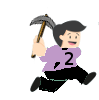
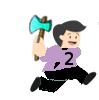
Miners now appear on puzzle page.

Changed region(s): [[0.2727, 0.12, 0.5758, 0.42], [0.303, 0.51, 0.4242, 0.63]]

diff --git a/public/js/miners.js b/public/js/miners.js
@@ -34,9 +34,18 @@
 			dataType: JSON,                 
 	    });
 	}
+	
+	// miner constructor
+	function Miner(charName, minutes) {
+		this.charName = charName;
+		this.minutes = minutes;
+		this.imgPath = "images/miners/" + charName.toLowerCase() + ".png";
+		this.onLeft = true;
+		this.onRaft = false; 
+	}
   	
   	// farmer constructor
-  	function Farmer(gender) {
+  	/*function Farmer(gender) {
 		this.imgPath = "images/" + ((gender == "female") ? "girlFarmer.png" : "boyFarmer.png");  	
 		this.onLeft = true;
 		this.onRaft = false; 
@@ -49,7 +58,7 @@
   	this.imgPath = "images/theme" + themeNum + "/" + charName + ".png";
   	this.onLeft = true;
   	this.onRaft = false; 
-  }
+  }*/
   
   // raft initial values
   var raftOnLeft = true; 
@@ -58,9 +67,9 @@
   var raftMoving = false;
   
   // store important objects
-  var farmer;
-  var aChar, bChar, cChar;
-  var raftPassenger;
+  //var farmer;
+  var aChar, bChar, cChar, dChar;
+  //var raftPassenger;
   
   // text divs
   var endText = document.getElementById("endText");
@@ -87,7 +96,7 @@
   	
   	// reset game 
   	gamePlayable = true;
-  	raftPassenger = null;
+  	//raftPassenger = null;
   	xPos = 10;
   	endText.innerHTML = "";
   	stepsArea.innerHTML = "";
@@ -96,37 +105,46 @@
   	document.getElementById("raft").style.left = 0;
   	raftOnLeft = true;
   	
+  	// create miner objects
+  	aChar = new Miner("Onika", 1);
+  	bChar = new Miner("Twitch", 2);
+  	cChar = new Miner("Fiona", 4);
+  	dChar = new Miner("Edward", 8);
+  	
   	// create farmer object
-  	farmer = new Farmer(document.querySelector('input[name="gender"]:checked').value);
+  	//farmer = new Farmer(document.querySelector('input[name="gender"]:checked').value);
   	
   	// draw farmer on left bank
-  	document.getElementById("farmerLeft").appendChild(document.getElementById("farmerImg"));
-  	farmerImg.src = farmer.imgPath;
+  	//document.getElementById("farmerLeft").appendChild(document.getElementById("farmerImg"));
+  	//farmerImg.src = farmer.imgPath;
   	
 	// store chosen theme details
-  	var select = document.getElementById("select");
+  	/*var select = document.getElementById("select");
   	var themeNum = select.selectedIndex;
   	var theme = select.options[select.selectedIndex].value.split("/");
   	
   	// create character objects
   	aChar = new Character(theme[0], 1, themeNum); 
   	bChar = new Character(theme[1], 2, themeNum); 
-  	cChar = new Character(theme[2], 3, themeNum); 
+  	cChar = new Character(theme[2], 3, themeNum);*/ 
   	
   	// store image elements
   	var aImg = document.getElementById("aImg");
   	var bImg = document.getElementById("bImg");
   	var cImg = document.getElementById("cImg");
+  	var dImg = document.getElementById("dImg");
   	
   	// put character image elements on left bank
   	document.getElementById("aLeft").appendChild(aImg);
   	document.getElementById("bLeft").appendChild(bImg);
   	document.getElementById("cLeft").appendChild(cImg);
+  	document.getElementById("dLeft").appendChild(dImg);
   	
 	// set image sources, so images visible
 	aImg.src = aChar.imgPath;
 	bImg.src = bChar.imgPath;
 	cImg.src = cChar.imgPath;
+	dImg.src = dChar.imgPath;
   });
 	  
   /**

diff --git a/resources/views/miners/index.blade.php b/resources/views/miners/index.blade.php
@@ -34,18 +34,6 @@
 		</p>
 		<form>
 			{!! csrf_field() !!}
-			<input type="radio" name="gender" value="male" checked>Male
-			<br>
-			<input type="radio" name="gender" value="female">Female
-			<br>
-			Theme:<br>
-			<select id="select">
-				<option>Fox/Chicken/Grain</option>
-				<option>Panther/Pig/Porridge</option>
-				<option>Wolf/Sheep/Cabbage</option>
-				<option>Fox/Goose/Beans</option>
-			</select>
-			<br>
 			<button id="startBtn" type="button">Restart</button>
 		</form>
 	</div>
@@ -54,9 +42,6 @@
 			<div id="canvas">
 				<div id="endText"></div>
 				<div id="charsInit">
-					<div class="character" id="farmerLeft">
-						<img src="" alt="" id="farmerImg">
-					</div>
 					<div class="character" id="aLeft">
 						<img src="" alt="" id="aImg">
 					</div>
@@ -66,19 +51,22 @@
 					<div class="character" id="cLeft">
 						<img src="" alt="" id="cImg">
 					</div>
+					<div class="character" id="dLeft">
+						<img src="" alt="" id="dImg">
+					</div>
 				</div>
 				<div id="raft">
-					<div id="farmerSpot"></div>
-					<div id="passengerSpot"></div>
+					<div id="aSpot"></div>
+					<div id="bSpot"></div>
 				</div>
 				<div id="rightBank">
-					<div class="character" id="farmerRight">
-					</div>
 					<div class="character" id="aRight">
 					</div>
 					<div class="character" id="bRight">
 					</div>
 					<div class="character" id="cRight">
+					</div>
+					<div class="character" id="dRight">
 					</div>
 				</div>
 				<div class="clearFix"></div>
